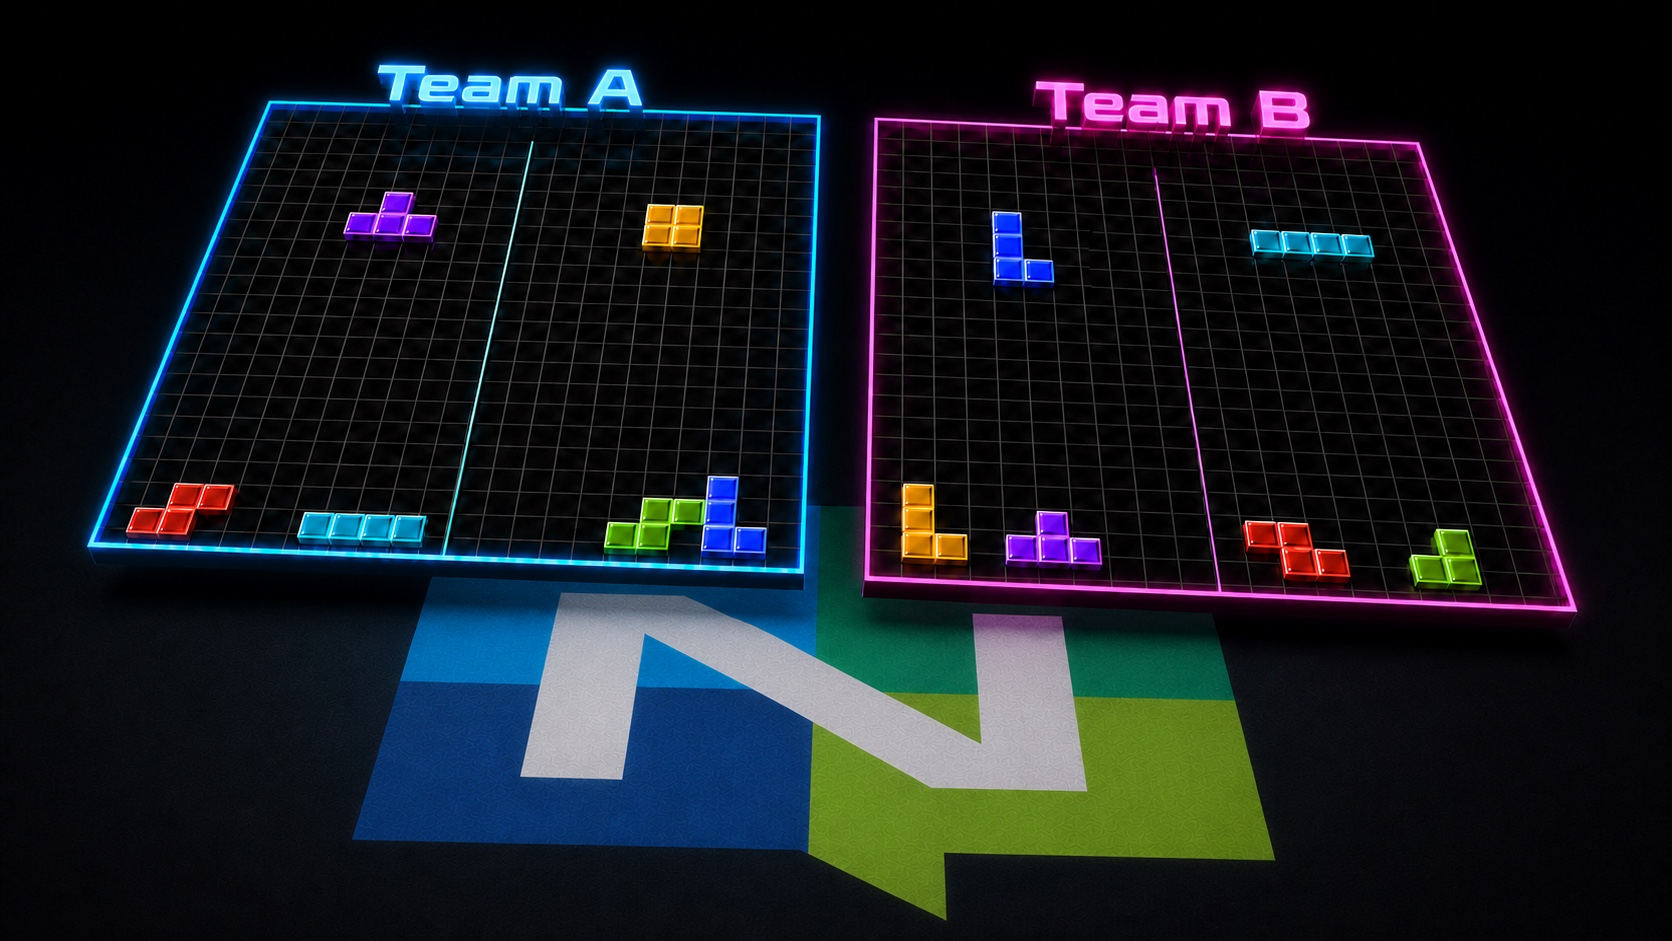
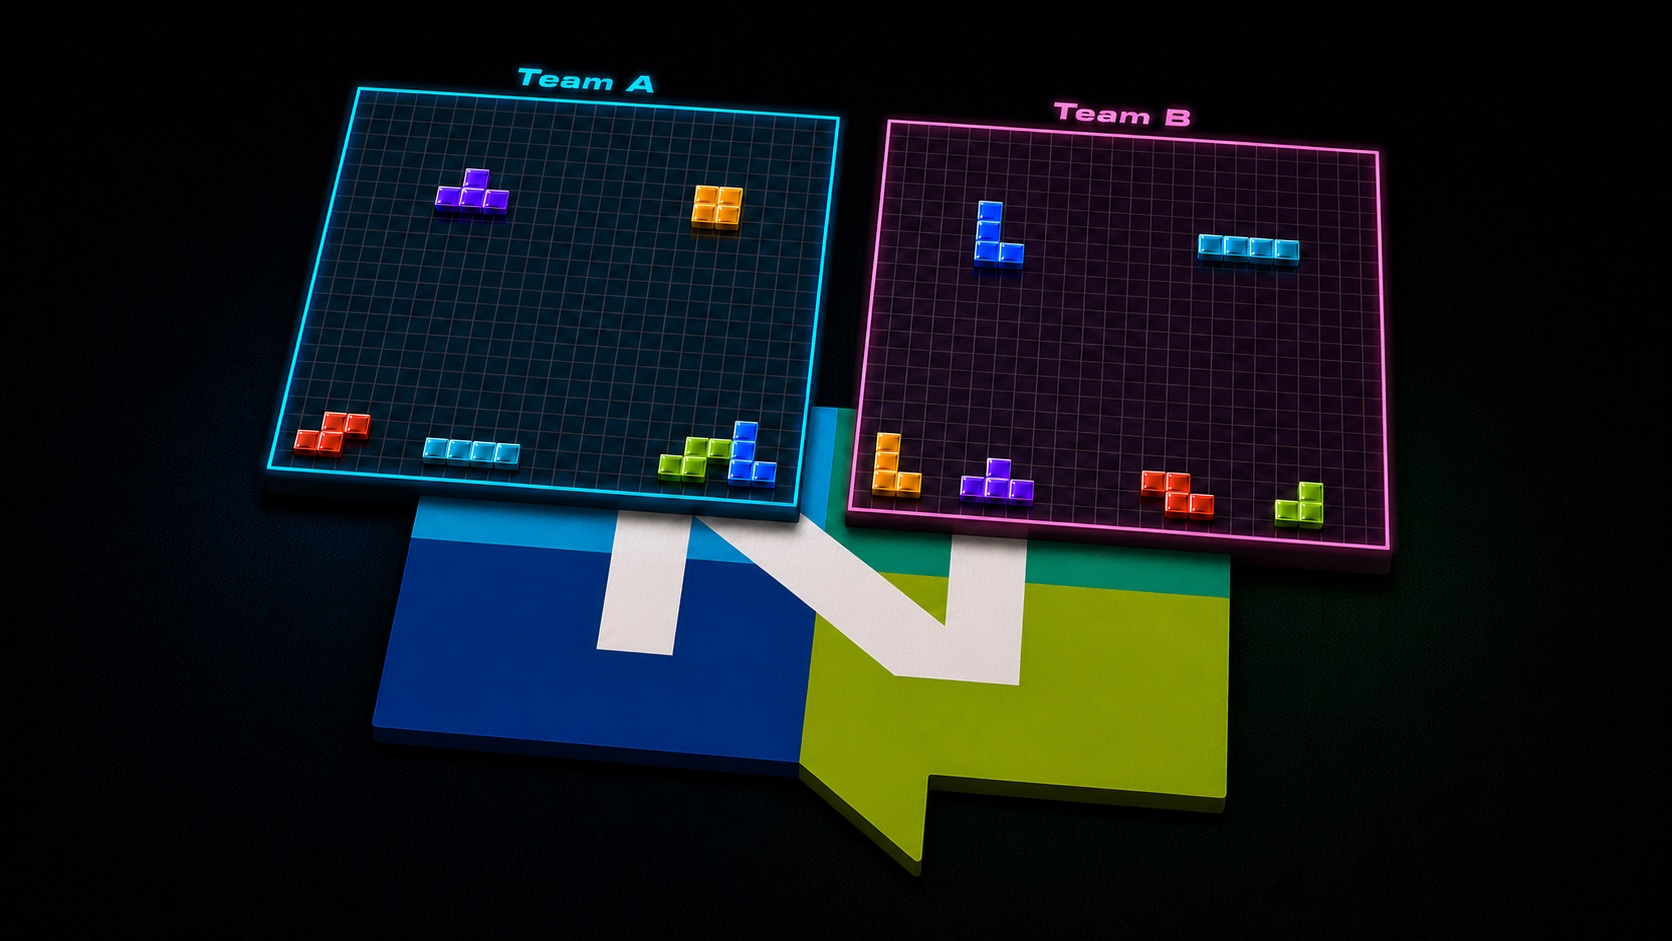
Login: backdrop artwork shows each team's well as a neon-framed board with pieces in play

diff --git a/internal/nativeui/backdrop.go b/internal/nativeui/backdrop.go
@@ -20,8 +20,8 @@ import (
 )
 
 // loginBackdropJPG is the login artwork: Team A's cyan board and Team B's
-// magenta board, each split into its two players' halves, standing on the
-// NATS "N" logo.
+// magenta board — each a neon-framed well with a few pieces in play —
+// standing on the NATS "N" logo.
 //
 //go:embed login-backdrop.jpg
 var loginBackdropJPG []byte
